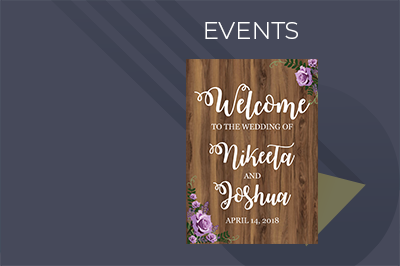
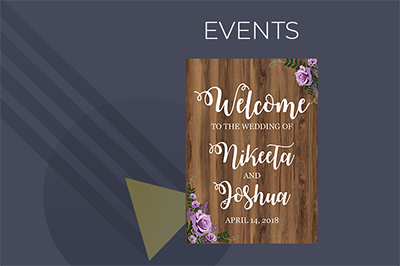
updated graphics and text

Changed region(s): [[0.3, 0.2105, 0.81, 0.9925], [0.78, 0.6316, 0.93, 0.8722], [0.51, 0.0602, 0.75, 0.1504]]

diff --git a/index.html b/index.html
@@ -45,49 +45,49 @@ if (!doNotTrack) {
 				<ul id="og-grid" class="og-grid">
 					
 					<li>
-						<a href="https://github.com/aerohub/hugrid" data-largesrc="images/thumbs/Birthday%20Cards.png" data-title="Birthday Cards" data-description="This is some explanition for why yo made these birthday cards." data-buttontext="">
+						<a href="https://github.com/aerohub/hugrid" data-largesrc="images/thumbs/CupcakeCard.png" data-title="Birthday Cards" data-description="It’s your birthday! Who doesn’t want a fun card on their birthday. Handmade cards bring so much joy knowing that you took the time to create something so memorable for your special day." data-buttontext="">
 							<img src="images/thumbs/Birthday%20Cards.png" alt="Birthday Cards"/>
 						</a>
 					</li>
 					
 					<li>
-						<a href="https://github.com/aerohub/hugrid" data-largesrc="images/thumbs/Events.png" data-title="Events - Weddings" data-description="A simple grid theme for Hugo. A kind of boilerplate to perform anyone or anything quickly. Portfolio, collection, bookmarks, contacts and so on." data-buttontext="">
-							<img src="images/thumbs/Events.png" alt="Events - Weddings"/>
+						<a href="https://github.com/aerohub/hugrid" data-largesrc="images/thumbs/welcomesign20x28.png" data-title="Events" data-description="Graphics play a key role during events, especially weddings! Custom signage brings together that special moment that you will remember for the rest of your life." data-buttontext="">
+							<img src="images/thumbs/Events.png" alt="Events"/>
 						</a>
 					</li>
 					
 					<li>
-						<a href="https://github.com/aerohub/hugrid" data-largesrc="images/thumbs/Fundraising.png" data-title="Fundraising" data-description="A simple grid theme for Hugo. A kind of boilerplate to perform anyone or anything quickly. Portfolio, collection, bookmarks, contacts and so on." data-buttontext="">
+						<a href="https://github.com/aerohub/hugrid" data-largesrc="images/thumbs/fundraising2.png" data-title="Fundraising" data-description="What better way to promote great causes by having an interesting visual? People are drawn to visuals on a daily basis." data-buttontext="">
 							<img src="images/thumbs/Fundraising.png" alt="Hugrid Theme"/>
 						</a>
 					</li>
 					
 					<li>
-						<a href="https://github.com/aerohub/hugrid" data-largesrc="images/thumbs/Sketching.png" data-title="Sketching" data-description="A simple grid theme for Hugo. A kind of boilerplate to perform anyone or anything quickly. Portfolio, collection, bookmarks, contacts and so on." data-buttontext="">
+						<a href="https://github.com/aerohub/hugrid" data-largesrc="images/thumbs/sketchingthumnail.png" data-title="Sketching" data-description="Nowadays a lot of things are created digitally and the idea of hand drawn masterpieces are forgotten. Creativity starts with a pencil and paper and of course a great imagination!" data-buttontext="">
 							<img src="images/thumbs/Sketching.png" alt="Hugrid Theme"/>
 						</a>
 					</li>
 					
 					<li>
-						<a href="https://github.com/aerohub/hugrid" data-largesrc="images/thumbs/Holiday%20Cards.png" data-title="Holiday Cards" data-description="A simple grid theme for Hugo. A kind of boilerplate to perform anyone or anything quickly. Portfolio, collection, bookmarks, contacts and so on." data-buttontext="">
+						<a href="https://github.com/aerohub/hugrid" data-largesrc="images/thumbs/wolf.png" data-title="Holiday Cards" data-description="Tis the Season! As people prepare for the holiday season they come together with handmade cards and yummy treats. " data-buttontext="">
 							<img src="images/thumbs/Holiday%20Cards.png" alt="Hugrid Theme"/>
 						</a>
 					</li>
 					
 					<li>
-						<a href="https://github.com/aerohub/hugrid" data-largesrc="images/thumbs/illustrations.png" data-title="Illustrations" data-description="A simple grid theme for Hugo. A kind of boilerplate to perform anyone or anything quickly. Portfolio, collection, bookmarks, contacts and so on." data-buttontext="">
+						<a href="https://github.com/aerohub/hugrid" data-largesrc="images/thumbs/belleprint.png" data-title="Illustrations" data-description="These days there are so many interpretations of existing graphics in the world. Take a look at these custom prints with some familiar faces!" data-buttontext="">
 							<img src="images/thumbs/illustrations.png" alt="Hugrid Theme"/>
 						</a>
 					</li>
 					
 					<li>
-						<a href="https://github.com/aerohub/hugrid" data-largesrc="images/thumbs/Marketing.png" data-title="Marketing" data-description="A simple grid theme for Hugo. A kind of boilerplate to perform anyone or anything quickly. Portfolio, collection, bookmarks, contacts and so on." data-buttontext="">
+						<a href="https://github.com/aerohub/hugrid" data-largesrc="images/thumbs/Rental%20Packages3.png" data-title="Marketing" data-description="A company with a good visual will always draw the clients attention. Images speak louder than words." data-buttontext="">
 							<img src="images/thumbs/Marketing.png" alt="Hugrid Theme"/>
 						</a>
 					</li>
 					
 					<li>
-						<a href="https://github.com/aerohub/hugrid" data-largesrc="images/thumbs/Youre%20Invited.png" data-title="Youre Invited" data-description="A simple grid theme for Hugo. A kind of boilerplate to perform anyone or anything quickly. Portfolio, collection, bookmarks, contacts and so on." data-buttontext="">
+						<a href="https://github.com/aerohub/hugrid" data-largesrc="images/thumbs/sipandseecard.png" data-title="Youre Invited" data-description="What joy comes with a thoughtful invitation for a loved one. These are keepsakes for people to remember such great celebrations.." data-buttontext="">
 							<img src="images/thumbs/Youre%20Invited.png" alt="Hugrid Theme"/>
 						</a>
 					</li>
